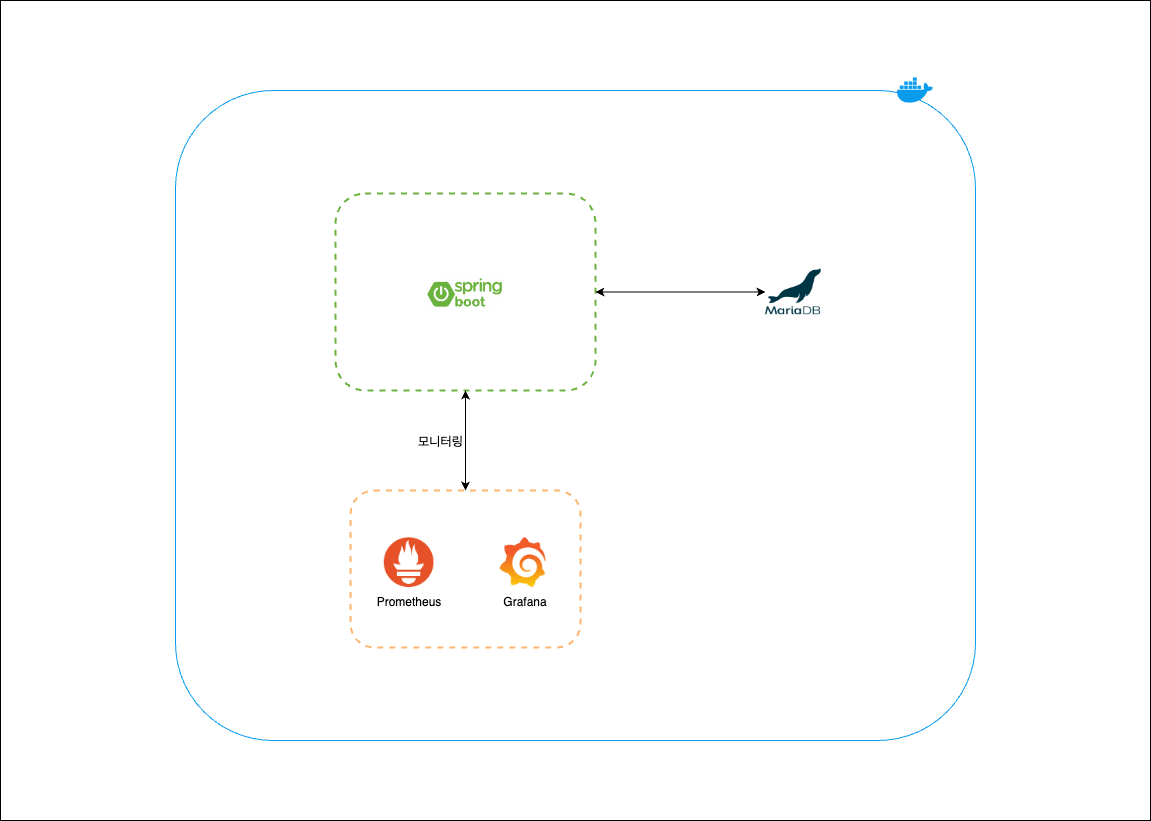
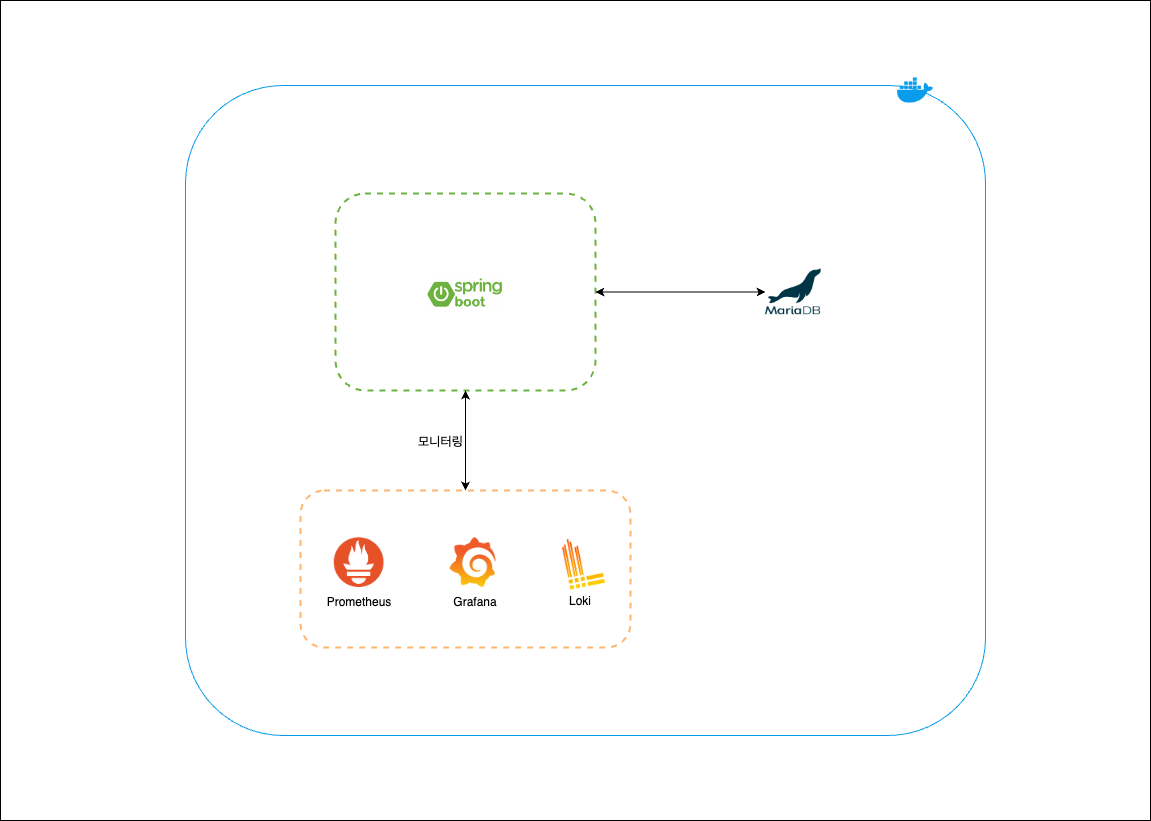
docs: README 수정

diff --git a/README.md b/README.md
@@ -61,7 +61,7 @@
 
 ### v1.1
 
-- Prometheus, Grafana를 이용한 모니터링 구축
+- Prometheus, Grafana, Loki를 이용한 모니터링 구축
 - 부하 테스트를 위한 K6 스크립트 작성
 
 ### v2.0
